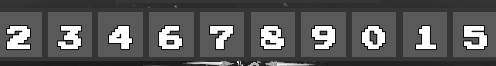
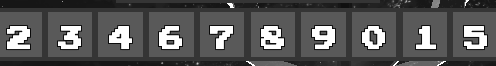
test

diff --git a/Popup.py b/Popup.py
@@ -25,7 +25,7 @@ pytesseract.pytesseract.tesseract_cmd = r"C:\Program Files\Tesseract-OCR\tessera
 CODE_FILE = "code.txt"
 
 # relative region of the number popup (tweak if needed)
-NUMBER_REGION1 = (0.57, 0.18, 0.65, 0.23)
+NUMBER_REGION1 = (0.58, 0.18, 0.64, 0.22)
 NUMBER_REGION2 = (0.19, 0.33, 0.81, 0.44)
 # ==========================================
 
@@ -168,7 +168,7 @@ def main():
                     print("OCR failed or incomplete:", digits)
                 time.sleep(2*60)
                 break
-            print("No popup detected")
+            
 
         time.sleep(CHECK_INTERVAL)
 
